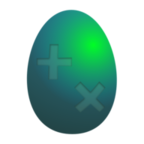
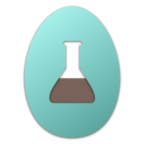
Rebrand

diff --git a/src/components/Sidebar.tsx b/src/components/Sidebar.tsx
@@ -1,4 +1,4 @@
-import React from 'react';
+import React, { useMemo } from 'react';
 import { createStyles, makeStyles, Theme } from '@material-ui/core/styles';
 import Drawer from '@material-ui/core/Drawer';
 import List from '@material-ui/core/List';
@@ -8,6 +8,7 @@ import ListItemIcon from '@material-ui/core/ListItemIcon';
 import ListItemText from '@material-ui/core/ListItemText';
 import ListSubheader from '@material-ui/core/ListSubheader';
 import Link from '@material-ui/core/Link';
+import { Link as RouterLink, LinkProps as RouterLinkProps  } from 'react-router-dom';
 
 import BuildIcon from '@material-ui/icons/Build';
 import HomeIcon from '@material-ui/icons/Home';
@@ -41,6 +42,34 @@ export interface Props {
     setSidebarOpened: (sidebarOpened: boolean) => void,
 }
 
+interface ListItemLinkProps {
+  icon?: React.ReactElement;
+  primary: string;
+  to: string;
+  disabled?: boolean;
+}
+
+function ListItemLink(props: ListItemLinkProps) {
+  const { icon, primary, to, disabled } = props;
+
+  const renderLink = useMemo(
+    () =>
+      React.forwardRef<any, Omit<RouterLinkProps, 'to'>>((itemProps, ref) => (
+        <RouterLink to={to} ref={ref} {...itemProps} />
+      )),
+    [to],
+  );
+
+  return (
+    <li>
+      <ListItem button component={renderLink} disabled={disabled}>
+        {icon ? <ListItemIcon>{icon}</ListItemIcon> : null}
+        <ListItemText primary={primary} />
+      </ListItem>
+    </li>
+  );
+}
+
 export default function Sidebar(props: Props) {
   const classes = useStyles();
 
@@ -64,35 +93,24 @@ export default function Sidebar(props: Props) {
       onKeyDown={closeDrawer}
       >
         <div className={classes.toolbar}>
-          <Link className={classes.title} href="/" variant="h6" color="inherit">
+          <Link component={RouterLink} to="/" 
+            className={classes.title} variant="h6" color="inherit">
             Egg, Inc. Laboratory
           </Link>
           {process.env.REACT_APP_VERSION ? `v${process.env.REACT_APP_VERSION}`: null}
         </div>
         <Divider />
         <List>
-          <ListItem button>
-            <ListItemIcon><HomeIcon /></ListItemIcon>
-            <ListItemText primary="Top" />
-          </ListItem>
-          <ListItem button disabled>
-            <ListItemIcon><DashboardIcon /></ListItemIcon>
-            <ListItemText primary="Dashboard" />
-          </ListItem>
+          <ListItemLink to="/" primary="Home" icon={<HomeIcon />} />
+          <ListItemLink disabled to="/" primary="Dashboard" icon={<DashboardIcon />} />
         </List>
         <Divider />
         <List subheader={<ListSubheader>Experimental Features</ListSubheader>}>
-          <ListItem button>
-            <ListItemIcon><ExploreIcon /></ListItemIcon>
-            <ListItemText primary="Mission Data Collection" />
-          </ListItem>
+          <ListItemLink disabled to="/" primary="Mission Data Collection" icon={<ExploreIcon />} />
         </List>
         <Divider />
         <List>
-          <ListItem button>
-            <ListItemIcon><BuildIcon /></ListItemIcon>
-            <ListItemText primary="Settings" />
-          </ListItem>
+          <ListItemLink to="/settings" primary="Settings" icon={<BuildIcon />} />
         </List>
       </div>
     </Drawer>

diff --git a/src/components/Markdown.tsx b/src/components/Markdown.tsx
@@ -8,6 +8,9 @@ const useStyles = makeStyles((theme) => ({
   listItem: {
     marginTop: theme.spacing(1),
   },
+  image: {
+    maxWidth: '100%',
+  },
 }));
 
 function MarkdownListItem(props: any) {
@@ -16,6 +19,17 @@ function MarkdownListItem(props: any) {
     <li className={classes.listItem}>
       <Typography component="span" {...props} />
     </li>
+  );
+}
+
+function MarkdownImage(props: any) {
+  const classes = useStyles();
+  return (
+    <img
+      className={classes.image}
+      src={props.src}
+      title={props.title}
+      alt={props.alt} />
   );
 }
 
@@ -51,6 +65,9 @@ const options = {
     a: { component: Link },
     li: {
       component: MarkdownListItem,
+    },
+    img: {
+      component: MarkdownImage,
     },
   },
 };

diff --git a/src/pages/Home.tsx b/src/pages/Home.tsx
@@ -1,0 +1,25 @@
+import { makeStyles } from '@material-ui/core/styles';
+import logo from '../assets/media/logo.png';
+import about from '../md/about.md';
+import Markdown from '../components/Markdown';
+import Spacer from '../components/Spacer';
+
+const useStyles = makeStyles((theme) => ({
+  image: {
+    maxWidth: '100%',
+    width: '600px',
+    display: 'block',
+    marginLeft: 'auto',
+    marginRight: 'auto',
+  },
+}));
+
+export default function Home() {
+  const classes = useStyles();
+  return (<>
+    <img src={logo} className={classes.image}
+      title="logo" alt="logo" />
+    <Spacer size={50} />
+    <Markdown>{about}</Markdown>
+  </>);
+}

diff --git a/src/App.tsx b/src/App.tsx
@@ -10,7 +10,9 @@ import {getLightTheme, getDarkTheme} from './themes';
 import Navbar from './components/Navbar';
 import Sidebar from './components/Sidebar';
 import Footer from './components/Footer';
+
 import Settings from './pages/Settings';
+import Home from './pages/Home';
 
 const useStyles = makeStyles((theme) => ({
   root: {
@@ -39,9 +41,7 @@ function AppRoutes(props: { profileManager: ProfileManager }) {
       <Settings profileManager={props.profileManager} />
     </Route>
     <Route path="/">
-      <div>
-        placeholder
-      </div>
+      <Home />
     </Route>
   </Switch>)
 }

diff --git a/src/components/Spacer.tsx b/src/components/Spacer.tsx
@@ -1,0 +1,26 @@
+import React from 'react';
+
+export interface Props {
+  size: number;
+  axis?: 'vertical' | 'horizontal';
+  style?: any;
+  delegated?: any;
+}
+
+export default function Spacer(props: Props) {
+  const width = props.axis === 'vertical' ? 1 : props.size;
+  const height = props.axis === 'horizontal' ? 1 : props.size;
+  return (
+    <span
+      style={{
+        display: 'block',
+        width,
+        minWidth: width,
+        height,
+        minHeight: height,
+        ...props.style,
+      }}
+      {...props.delegated}
+    />
+  );
+};

diff --git a/src/md/about.md b/src/md/about.md
@@ -6,3 +6,7 @@ We're fully taking care not to harm the game system,
 however, the service can be terminated anytime if the original developer asked to.
 We sincerely ask you to understand the use of this app is unsupported action,
 and we do not take any responsibility or liability for any damage or loss caused through our service.
+
+## Getting started
+
+At this moment we only provide limited features publicly, however, you can see what's here by seeing the menu. You can save your ID in the settings page to enable some personalized features.
